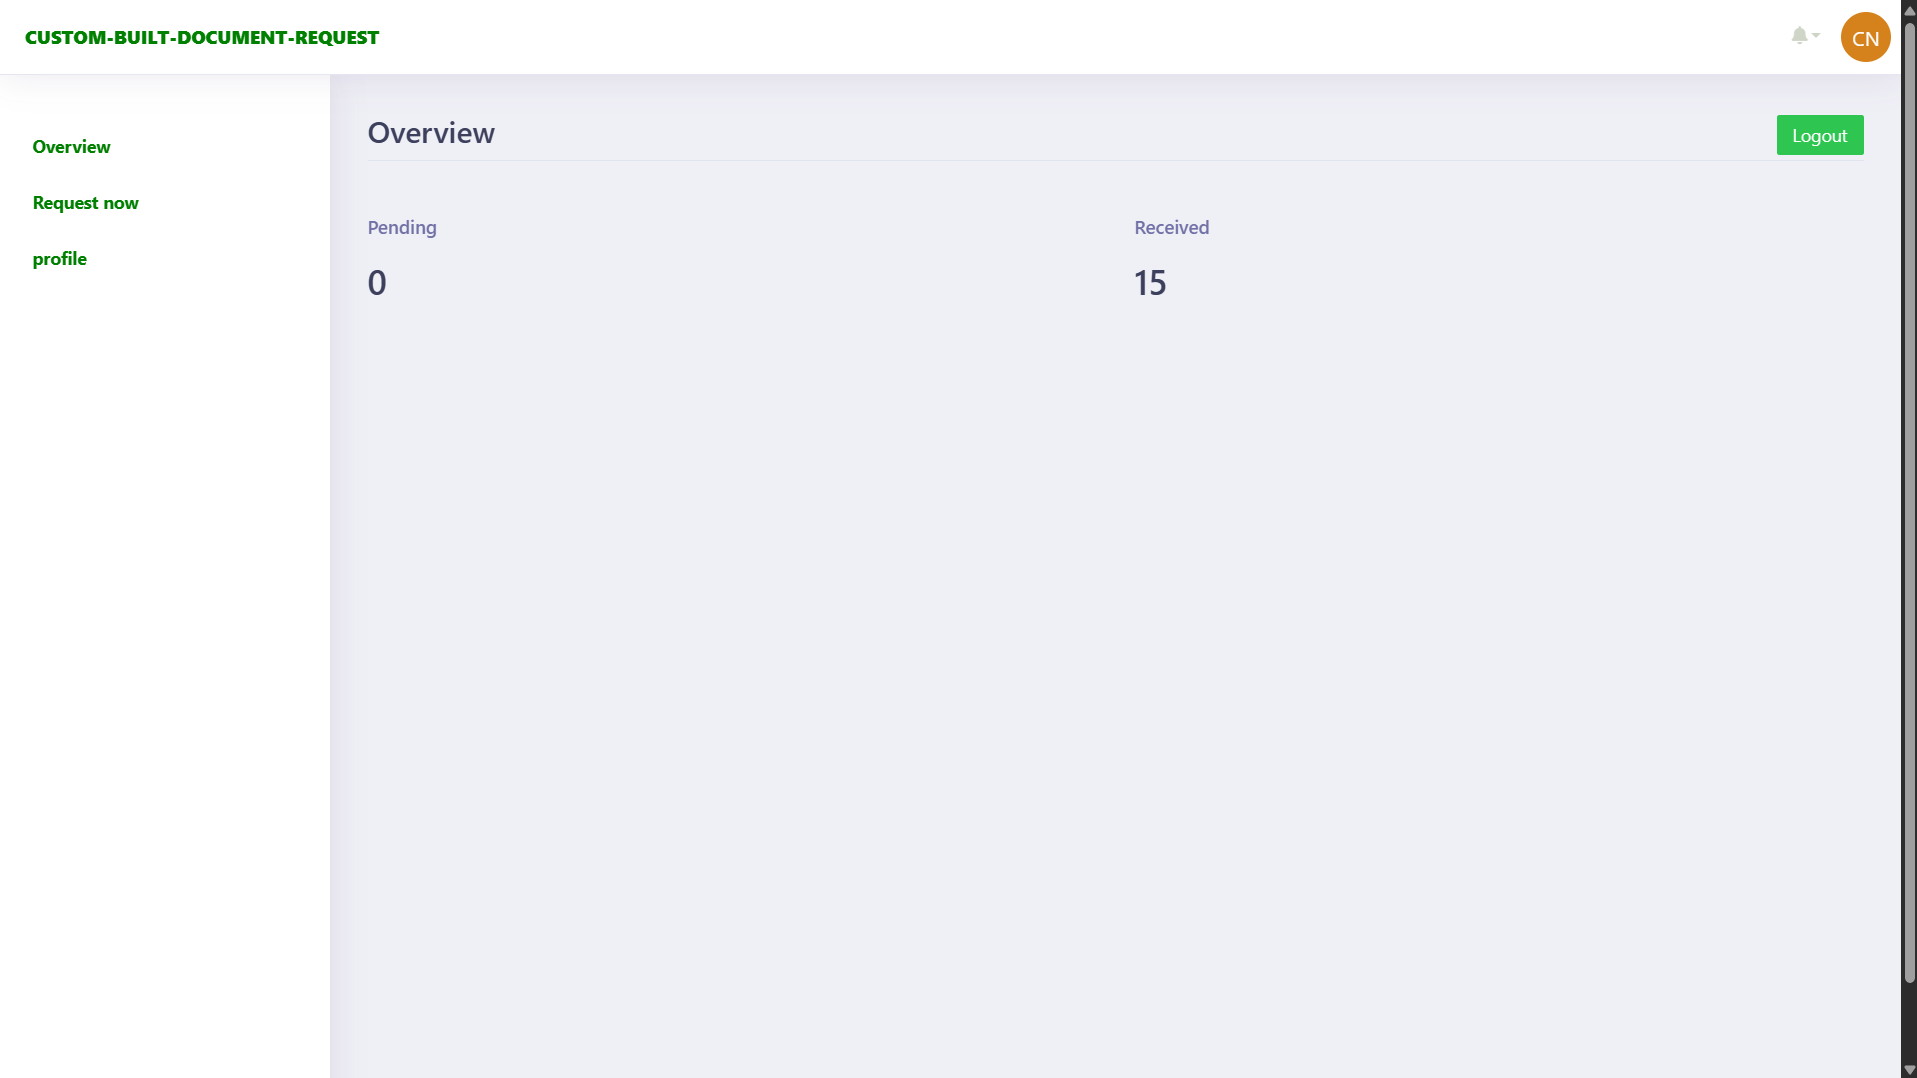
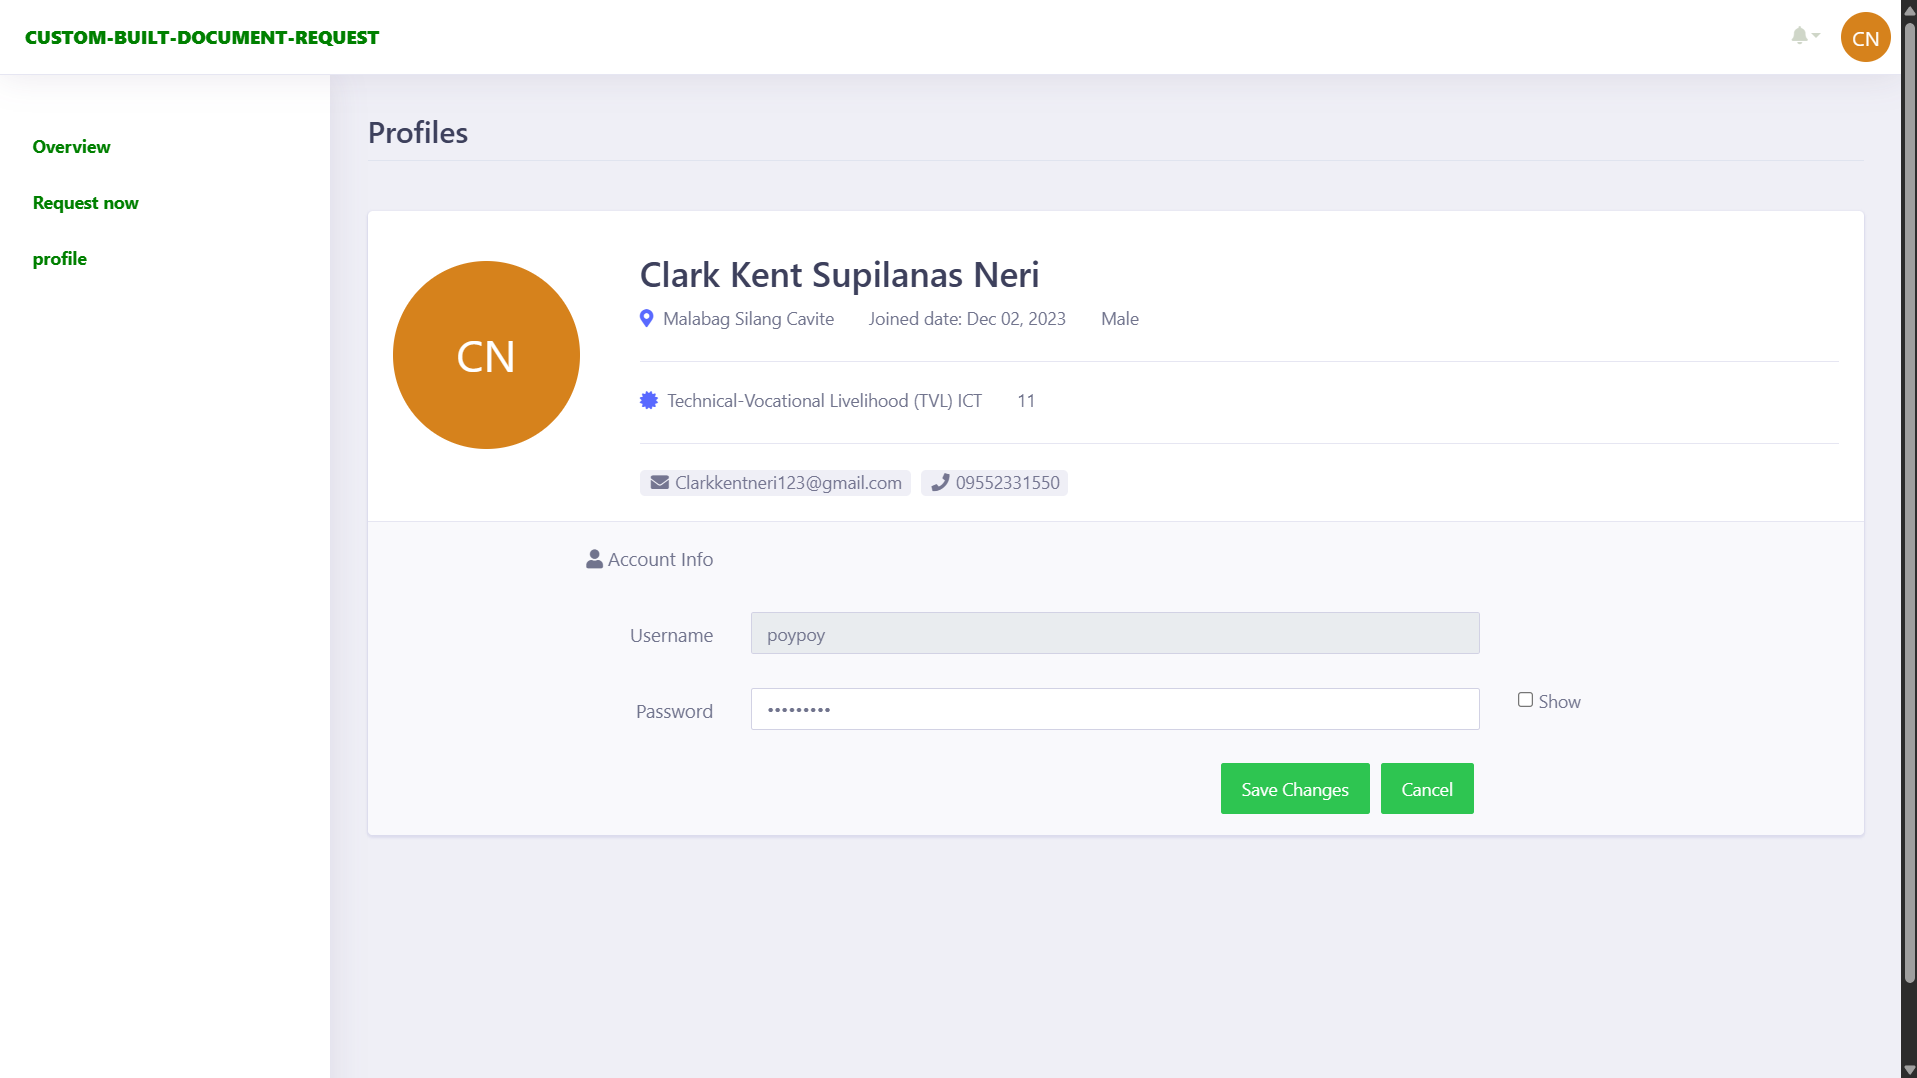
NEw updates

diff --git a/src/App.jsx b/src/App.jsx
@@ -1,7 +1,7 @@
 
 function App() {
   return (
-    <div className="bg-emerald-50 text--gray-800">
+    <div className="bg-beige text--gray-800">
 
       {/* this is the header*/}
 
@@ -10,20 +10,22 @@ function App() {
       </header>
 
       {/* this is the hero section */}
-      <div className="flex flex-col font-chakra-petch font-extrabold">
-        <img src="src/assets/me.jpg" className="w-80 h-80 self-center mt-25 rounded-full border-6 border-vintage  md:w-100 md:h-100 md:mt-48 "></img>
-        <h1 className="p-8 mt-10 text-3xl text-left items-center md:p-20 md:mt-5">Hey there, I'm <span className="text-vintage font-extrabold">Clark Kent Neri.</span> an aspiring student. Take a look at my works thank you!☺ </h1>
-      </div>
-
+      <div className="flex flex-col font-montserrat lg:w-12/12 lg:pl-40 lg:pr-40 lg:pt-10 lg:ml-auto mr-auto">
+    
+        <img src="src/assets/me.jpg" className= "w-80 h-80 self-center mt-25 rounded-full border-6 border-vintage  md:w-100 md:h-100 md:mt-48 lg:mt-10 "></img>
+        <h1 className="p-8 mt-10 text-3xl text-left font-extrabold items-center md:p-20 md:mt-2 md:text-4xl lg:p-20 lg:mt-5 lg:text-center lg:text-5xl">Hey there, I'm <span className="text-vintage font-extrabold">Clark Kent Neri.</span> an aspiring student. Take a look at my works thank you!☺ </h1>
+          
+        </div>
+      
         {/* highlighted work */}
-      <div className="bg-dark-plum p-4 font-chakra-petch font-extrabold">
+      <div className="bg-vintage p-4 font-chakra-petch font-extrabold">
         <div className="text-center text-4xl pt-10 md:text-5xl  ">
           <div className="text-amber-50">Highlighted Work</div>
           <div className="grid grid-cols-12 mt-8">
             <div className="col-span-12 p-4 md:p-4 md:col-start-2 md:col-end-12">
               <a href="https://github.com/PoyidudePoy/Library-Management-System"> 
               <img src="src/assets/library.png" className="h-60 rounded-t-2xl md:w-full  "></img>
-              <div className="text-4xl bg-gradient-to-r from-violet-300 to-violet-400 p-4 rounded-b-2xl text-black">Library Management System
+              <div className="text-4xl bg-gradient-to-r from-purple-light to-purple-mid p-4 rounded-b-2xl text-amber-50">Library Management System
                 <div className="text-xl mt-2">a barcode log way of library system</div>
               </div>
               </a>
@@ -31,7 +33,7 @@ function App() {
           <div className="col-span-12 p-4 md:col-start-2  md:col-end-12 md:p-4 ">
             <a href="https://github.com/PoyidudePoy/Custom-Built-Document-Request">
              <img src="src/assets/custom.png" className="h-60 rounded-t-2xl md:w-full "></img>
-             <div className="text-4xl bg-gradient-to-r from-green-300 to-green-400 rounded-b-2xl p-4">Custom Built Document Request
+             <div className="text-4xl bg-gradient-to-r from-light-green to-middle-green rounded-b-2xl p-4 text-amber-50">Custom Built Document Request
                <div className="text-xl mt-2">a system made specifically for requesting documents</div>
              </div>
             </a> 
@@ -40,7 +42,7 @@ function App() {
       </div>
       </div>
       {/* all my projects section */}
-      <div id="projects" className="text-xl font-montserrat font-extrabold p-4">
+      <div id="projects" className="text-xl font-chakra-petch font-extrabold p-4 bg-beige">
          <div className="text-4xl p-4">My Works 🫶🏻</div>
           <div className="p-4">This is where all of my works go thank you so much!!</div>
 
@@ -54,9 +56,9 @@ function App() {
 
 
       {/* footer */}
-      <div className="bg-gray-300 font-poppins ">
+      <div className="bg-gray-300 font-poppins p-4 ">
 
-      <div>the website design is inspired to Zach Jordan </div>
+      <div>this portfolio is clearly for educational and credits all goes to Zachary Jordan for his amazing design :3 </div>
 
 
 

diff --git a/src/index.css b/src/index.css
@@ -10,11 +10,17 @@
   --color-dark: #111827;
   --color-espresso: #51291E;
   --color-dark-plum: #301014;
-  --color-vintage: #73628a;
+  --color-vintage: #B34A44;
   --color-ash-gray: #cbd0b9;
+  --color-purple-light: #AF719D;
+  --color-purple-mid: #8B639B;
+  --color-light-green: #73976A;
+  --color-middle-green: #677E61;
+  --color-beige:#FFF7EB;
   --font-poppins: "Poppins", sans-serif;
   --font-montserrat: "Montserrat", sans-serif;
   --font-chakra-petch: "Chakra Petch", sans-serif;
+  
 
 
 }
